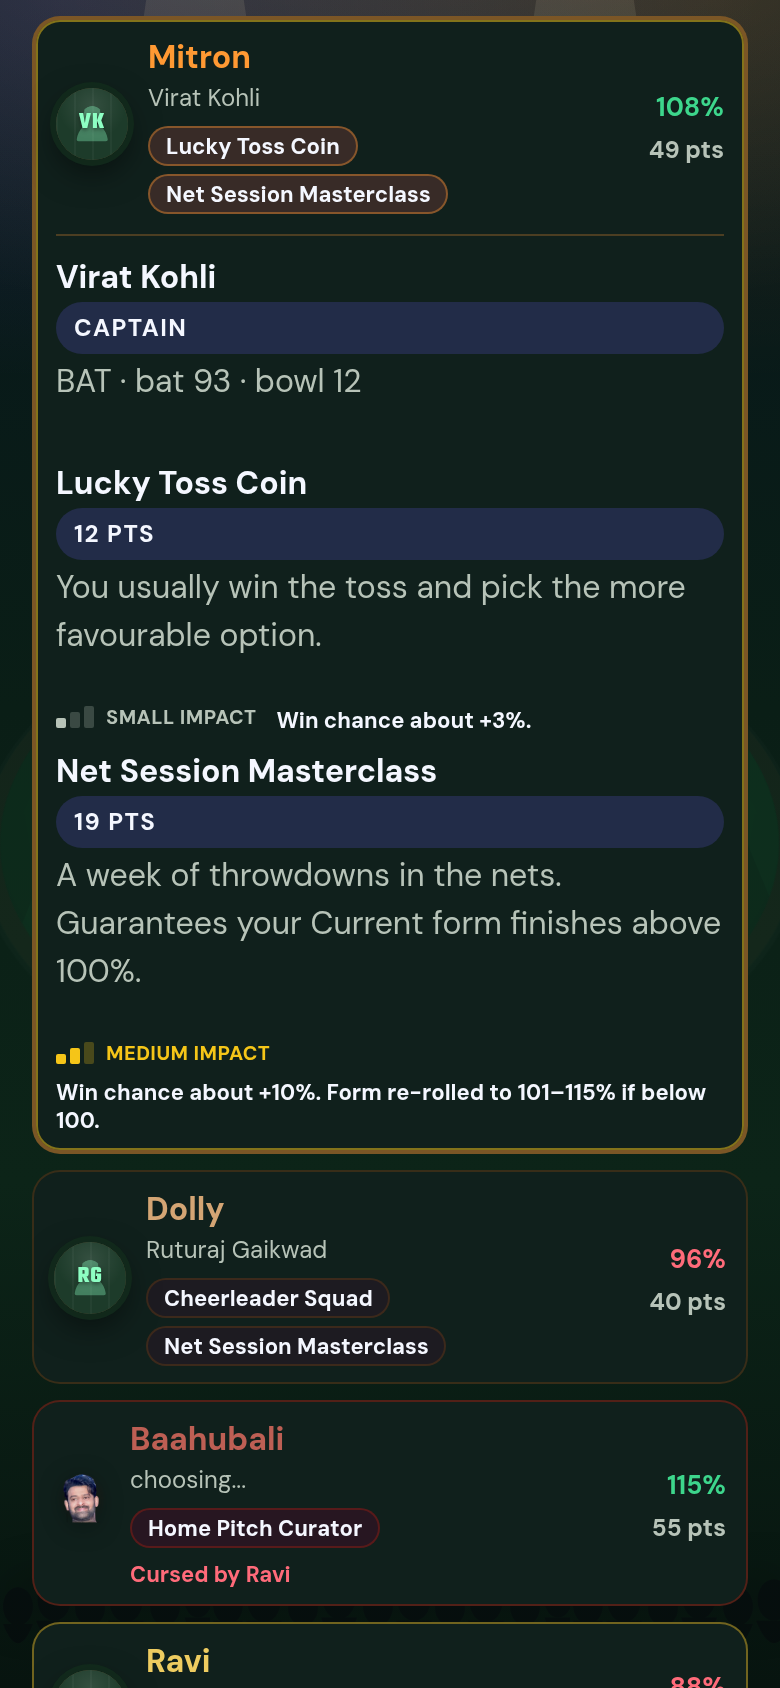
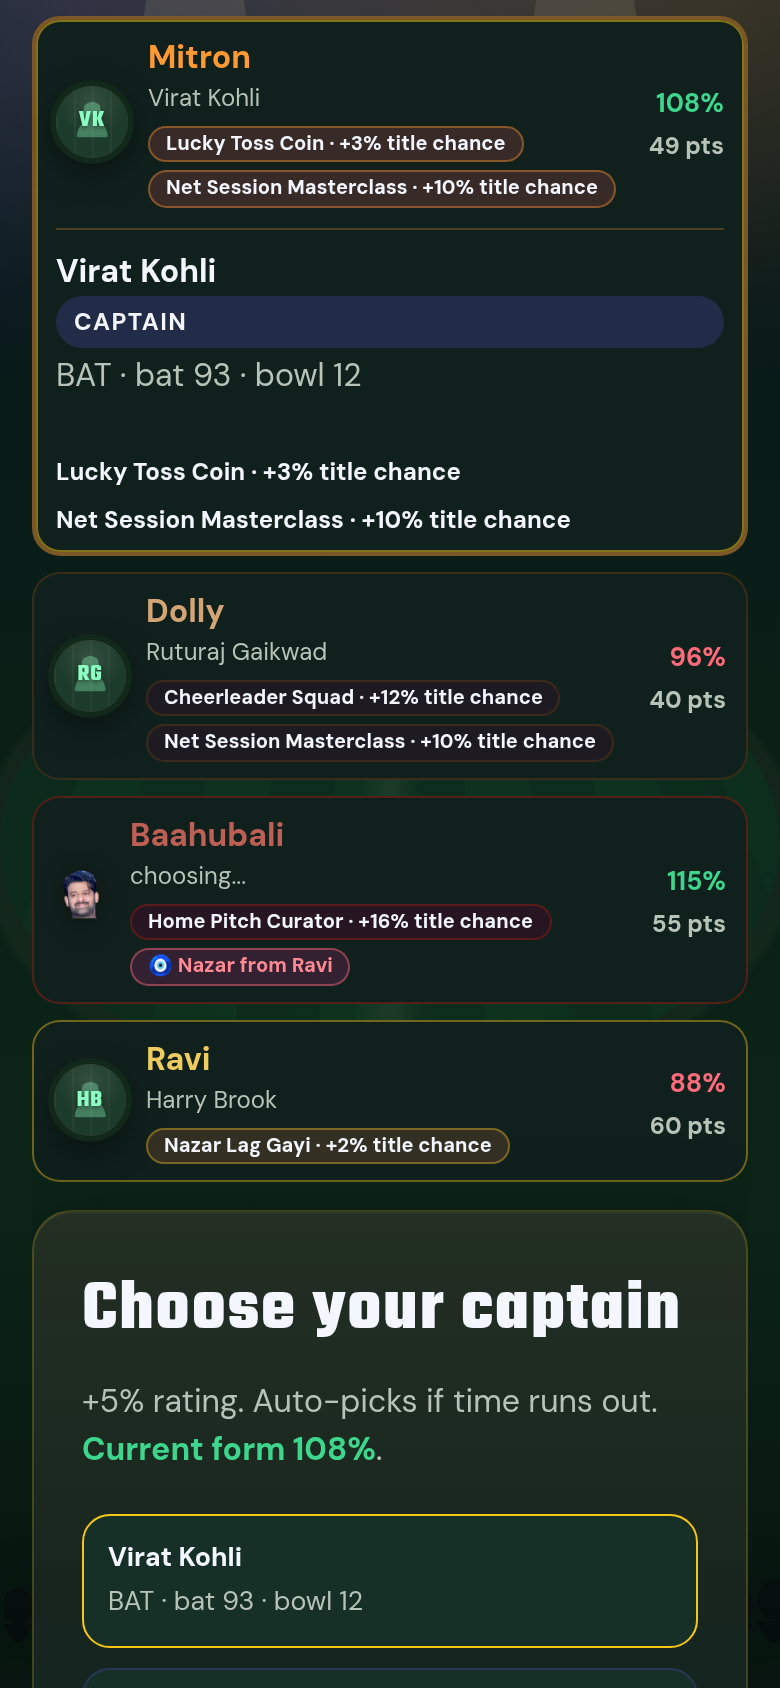
Hide unbuyable Buy buttons, sort the shop by impact, show only title-win chance on team cards, and put curses on the cursed team.

diff --git a/public/app.js b/public/app.js
@@ -1736,13 +1736,34 @@ function prepBoosterKey(teamName, booster) {
   return `${teamName}::${booster && booster.id ? booster.id : ""}`;
 }
 
+function titleChanceLabel(b) {
+  const impact = impactOf(b);
+  if (!impact || impact.titleWinPp == null || !Number.isFinite(Number(impact.titleWinPp))) return "";
+  const n = Math.round(Number(impact.titleWinPp));
+  const sign = n > 0 ? "+" : "";
+  return `${sign}${n}% title chance`;
+}
+
 function boosterChip(teamName, b) {
   if (!b) return "";
   const key = prepBoosterKey(teamName, b);
   const fresh = !seenPrepBoosters.has(key);
   seenPrepBoosters.add(key);
-  const target = b.targetName ? ` → ${esc(b.targetName)}` : "";
-  return `<span class="prep-chip ${fresh ? "is-fresh" : ""}">${esc(b.name)}${target}</span>`;
+  const full = (catalogById().get(b.id) || b);
+  const chance = titleChanceLabel(full);
+  const label = chance ? `${b.name} · ${chance}` : (b.name || "");
+  return `<span class="prep-chip ${fresh ? "is-fresh" : ""}">${esc(label)}</span>`;
+}
+
+function curseChip(caster, booster, victimName) {
+  if (!caster || !booster) return "";
+  const key = `curse::${caster.name}::${booster.id}::${victimName || ""}`;
+  const fresh = !seenPrepBoosters.has(key);
+  seenPrepBoosters.add(key);
+  let short = booster.name || "Curse";
+  if (booster.id === "nazar") short = "🧿 Nazar";
+  else if (booster.id === "bus-breakdown") short = "🚌 Bus Breakdown";
+  return `<span class="prep-chip prep-chip-curse ${fresh ? "is-fresh" : ""}">${esc(short)} from ${esc(caster.name)}</span>`;
 }
 
 function catalogById() {
@@ -1776,10 +1797,9 @@ function prepCard(team) {
   const expanded = expandedPrepTeam === team.name;
   const form = formPctOf(team) != null ? formLabel(team, { prefix: "" }) : "";
   const curses = cursedByOf(team, franchises);
-  const curseTag = curses.length
-    ? `<p class="prep-curse">Cursed by ${esc(curses.map((c) => c.team.name).join(", "))}</p>`
-    : "";
-  const chips = (team.boosters || []).map((b) => boosterChip(team.name, b)).join("") || `<span class="prep-chip is-empty">No boosters yet</span>`;
+  const ownChips = (team.boosters || []).map((b) => boosterChip(team.name, b));
+  const curseChips = curses.map((c) => curseChip(c.team, c.booster, team.name));
+  const chips = [...ownChips, ...curseChips].join("") || `<span class="prep-chip is-empty">No boosters yet</span>`;
   const mark = teamMark(team.franchise || team, "sm", team.name);
   const shot = captain && window.IplHeadshot
     ? IplHeadshot.markup(captain, { id: `prep-cap-${esc(team.name)}` })
@@ -1790,11 +1810,13 @@ function prepCard(team) {
     const capBlock = captain
       ? `<div class="prep-detail-cap"><strong>${esc(captain.name)}</strong> <span class="tag">Captain</span><p class="lede">${esc(captain.role)} · bat ${esc(captain.batting)} · bowl ${esc(captain.bowling)}</p></div>`
       : `<p class="lede">Captain still choosing...</p>`;
-    const boostBlocks = (team.boosters || []).map((b) => {
+    const boostLines = (team.boosters || []).map((b) => {
       const full = catalog.get(b.id) || b;
-      const aimed = b.targetName ? `<p class="lede">Aimed at ${esc(b.targetName)}.</p>` : "";
-      return `<div class="prep-detail-boost"><strong>${esc(b.name)}</strong> <span class="tag">${money(b.pricePoints)}</span><p class="lede">${esc(full.blurb || "")}</p>${impactMarkup(full)}${aimed}</div>`;
-    }).join("") || `<p class="lede">No boosters bought yet.</p>`;
+      const chance = titleChanceLabel(full);
+      return `<div class="prep-detail-boost"><p class="prep-boost-line">${esc(b.name)}${chance ? ` · ${esc(chance)}` : ""}</p></div>`;
+    });
+    const curseLines = curses.map((c) => `<div class="prep-detail-boost"><p class="prep-boost-line prep-boost-curse">${curseChip(c.team, c.booster, team.name)}</p></div>`);
+    const boostBlocks = [...boostLines, ...curseLines].join("") || `<p class="lede">No boosters bought yet.</p>`;
     details = `<div class="prep-card-details">${capBlock}${boostBlocks}</div>`;
   }
   return `
@@ -1805,7 +1827,6 @@ function prepCard(team) {
           <h3>${esc(team.name)}</h3>
           <p class="prep-captain-line">${captain ? esc(captain.name) : "choosing..."}</p>
           <div class="prep-chips">${chips}</div>
-          ${curseTag}
         </div>
         <div class="prep-card-meta">
           ${form ? `<p class="prep-form">${form}</p>` : ""}
@@ -1877,21 +1898,34 @@ function captainView() {
       </button>`
     )
     .join("");
-  const shop = catalog
+  const shopList = catalog.slice().sort((a, b) => {
+    const as = Number(a && a.impact && a.impact.score) || 0;
+    const bs = Number(b && b.impact && b.impact.score) || 0;
+    return bs - as;
+  });
+  const shop = shopList
     .map((b) => {
       const have = owned.has(b.id);
-      const can = you && !you.eliminated && !have && you.purseLakhs >= b.pricePoints;
+      const can = Boolean(you && !you.eliminated && !have && you.purseLakhs >= b.pricePoints);
       const needs = b.needsTarget ? "1" : "";
+      let reason = "";
+      if (!can) {
+        if (have) reason = "Owned";
+        else if (you && you.eliminated) reason = "Eliminated";
+        else if (you && you.purseLakhs < b.pricePoints) reason = "Not enough points";
+      }
+      const action = can
+        ? `<button class="btn secondary" data-buy="${esc(b.id)}" ${needs ? `data-needs-target="${needs}"` : ""}>${b.needsTarget ? "Pick a rival" : "Buy"}</button>`
+        : (reason ? `<p class="booster-reason">${esc(reason)}</p>` : "");
       return `
-        <div class="booster ${have ? "owned" : ""}">
+        <div class="booster ${have ? "owned" : ""} ${!can && reason ? "is-locked" : ""}">
           <div>
             <strong>${esc(b.name)}</strong>
             <span class="tag">${money(b.pricePoints)}</span>
-            ${have ? `<span class="tag">Bought</span>` : ""}
           </div>
           <p class="lede">${esc(b.blurb)}</p>
           ${impactMarkup(b)}
-          <button class="btn secondary" data-buy="${esc(b.id)}" ${needs ? `data-needs-target="${needs}"` : ""} ${can ? "" : "disabled"}>${have ? "Owned" : b.needsTarget ? "Pick a rival" : "Buy"}</button>
+          ${action}
         </div>`;
     })
     .join("");

diff --git a/server/boosters.js b/server/boosters.js
@@ -8,56 +8,56 @@ const BOOSTERS = [
     id: "friendly-umpire",
     name: "Friendly Umpire",
     pricePoints: 22,
-    impact: { size: "medium", bars: 2, line: "Win chance about +13%." },
+    impact: { size: "medium", bars: 2, line: "Win chance about +13%.", score: 14.546, titleWinPp: 13 },
     blurb: "Close calls go your way. A small chance to turn a narrow loss into a win.",
   },
   {
     id: "home-curator",
     name: "Home Pitch Curator",
     pricePoints: 25,
-    impact: { size: "big", bars: 3, line: "Win chance about +16%." },
+    impact: { size: "big", bars: 3, line: "Win chance about +16%.", score: 18.154, titleWinPp: 16 },
     blurb: "A surface that suits your attack. Modest bowling boost every match.",
   },
   {
     id: "drs-wizard",
     name: "DRS Wizard",
     pricePoints: 10,
-    impact: { size: "small", bars: 1, line: "Win chance about +2%." },
+    impact: { size: "small", bars: 1, line: "Win chance about +2%.", score: 1.848, titleWinPp: 2 },
     blurb: "A slim chance to overturn a narrow defeat on review.",
   },
   {
     id: "dew-factor",
     name: "Dew Factor",
     pricePoints: 26,
-    impact: { size: "big", bars: 3, line: "Win chance about +17%." },
+    impact: { size: "big", bars: 3, line: "Win chance about +17%.", score: 19.046, titleWinPp: 17 },
     blurb: "Chasing under lights gets a modest batting bump.",
   },
   {
     id: "cheerleaders",
     name: "Cheerleader Squad",
     pricePoints: 21,
-    impact: { size: "medium", bars: 2, line: "Win chance about +12%." },
+    impact: { size: "medium", bars: 2, line: "Win chance about +12%.", score: 13.532, titleWinPp: 12 },
     blurb: "Crowd morale. Your whole team plays a touch stronger.",
   },
   {
     id: "rain-dance",
     name: "Rain Dance",
     pricePoints: 11,
-    impact: { size: "small", bars: 1, line: "Win chance about +3%." },
+    impact: { size: "small", bars: 1, line: "Win chance about +3%.", score: 3.243, titleWinPp: 3 },
     blurb: "A chance to wash a league loss out into a no-result.",
   },
   {
     id: "lucky-toss",
     name: "Lucky Toss Coin",
     pricePoints: 12,
-    impact: { size: "small", bars: 1, line: "Win chance about +3%." },
+    impact: { size: "small", bars: 1, line: "Win chance about +3%.", score: 3.671, titleWinPp: 3 },
     blurb: "You usually win the toss and pick the more favourable option.",
   },
   {
     id: "bus-breakdown",
     name: "Team Bus Breakdown",
     pricePoints: 30,
-    impact: { size: "big", bars: 3, line: "Win chance about +4%. Rival title chance about -16%." },
+    impact: { size: "big", bars: 3, line: "Win chance about +4%. Rival title chance about -16%.", score: 22.966, titleWinPp: 4 },
     blurb: "Sabotage: one random rival arrives late and plays below par in every match.",
   },
   {
@@ -65,7 +65,7 @@ const BOOSTERS = [
     name: "Net Session Masterclass",
     pricePoints: 19,
     effect: "form-self",
-    impact: { size: "medium", bars: 2, line: "Win chance about +10%. Form re-rolled to 101–115% if below 100." },
+    impact: { size: "medium", bars: 2, line: "Win chance about +10%. Form re-rolled to 101–115% if below 100.", score: 10.915, titleWinPp: 10 },
     blurb: "A week of throwdowns in the nets. Guarantees your Current form finishes above 100%.",
   },
   {
@@ -73,7 +73,7 @@ const BOOSTERS = [
     name: "Nazar Lag Gayi",
     pricePoints: 20,
     effect: "form-rival",
-    impact: { size: "medium", bars: 2, line: "Win chance about +2%. Rival form below 100% (title chance about -9%)." },
+    impact: { size: "medium", bars: 2, line: "Win chance about +2%. Rival form below 100% (title chance about -9%).", score: 12.414, titleWinPp: 2 },
     needsTarget: true,
     blurb: "A lingering stare from the stands. Pick a rival and force their Current form below 100%.",
   },
@@ -109,11 +109,21 @@ function packImpact(b) {
     size: b.impact.size || "medium",
     bars: Number(b.impact.bars) || 2,
     line: b.impact.line || "",
+    score: Number(b.impact.score) || 0,
+    titleWinPp: Number.isFinite(Number(b.impact.titleWinPp)) ? Number(b.impact.titleWinPp) : null,
   };
 }
 
+function catalogByImpact(list) {
+  return (list || []).slice().sort((a, b) => {
+    const as = Number(a && a.impact && a.impact.score) || 0;
+    const bs = Number(b && b.impact && b.impact.score) || 0;
+    return bs - as;
+  });
+}
+
 function publicCatalog() {
-  return BOOSTERS.map((b) => ({
+  return catalogByImpact(BOOSTERS.map((b) => ({
     id: b.id,
     name: b.name,
     pricePoints: b.pricePoints,
@@ -121,7 +131,7 @@ function publicCatalog() {
     needsTarget: Boolean(b.needsTarget),
     effect: b.effect || null,
     impact: packImpact(b),
-  }));
+  })));
 }
 
 function packBooster(b) {
@@ -256,6 +266,7 @@ module.exports = {
   publicCatalog,
   packBooster,
   packImpact,
+  catalogByImpact,
   rollUniformPct,
   applyFormBoosters,
 };

diff --git a/scripts/shot-booster-board.js b/scripts/shot-booster-board.js
@@ -162,17 +162,37 @@ async function main() {
     await waitFor(host, () => {
       const text = (document.getElementById("prep-screen") && document.getElementById("prep-screen").innerText) || "";
       const chips = document.querySelectorAll(".prep-chip").length;
-      return chips >= 6 && /Lucky Toss Coin/.test(text) && /Nazar Lag Gayi/.test(text) && /Cursed by Ravi/.test(text) && /choosing/.test(text);
+      return chips >= 6 && /Lucky Toss Coin/.test(text) && /\+3% title chance/.test(text) && /Nazar from Ravi/.test(text) && /choosing/.test(text);
     }, "purchases on board");
     await sleep(1600);
-    await shot(host, "booster-board.png", PHONE, { scroll: "#prep-screen", hideTopbar: true });
+    await shot(host, "booster-board-curse.png", PHONE, { scroll: '[data-prep-team="Baahubali"]', hideTopbar: true });
 
     await waitFor(host, () => {
       const shop = document.getElementById("prep-shop");
+      const names = Array.from(document.querySelectorAll("#prep-shop .booster strong")).map((el) => el.textContent.trim());
+      return Boolean(shop && names[0] === "Team Bus Breakdown" && names[names.length - 1] === "DRS Wizard");
+    }, "shop catalog order");
+    const mitron = room.findByName("Mitron");
+    const savedPurse = mitron.purseLakhs;
+    mitron.purseLakhs = 15;
+    room.bump("captains");
+    await waitFor(host, () => {
+      const shop = document.getElementById("prep-shop");
       const text = shop ? shop.innerText : "";
-      return Boolean(shop && document.querySelectorAll(".impact-tag").length >= 8 && /Win chance about/.test(text) && /big impact/i.test(text));
-    }, "shop impact lines");
-    await shot(host, "booster-shop-impact.png", PHONE, { scroll: "#prep-shop", hideTopbar: true });
+      const names = Array.from(document.querySelectorAll("#prep-shop .booster strong")).map((el) => el.textContent.trim());
+      const firstLocked = document.querySelector("#prep-shop .booster");
+      const noBuyOnFirst = firstLocked && !firstLocked.querySelector("[data-buy]");
+      const ownedLucky = /Lucky Toss Coin/.test(text) && /Owned/.test(text);
+      return Boolean(shop && names[0] === "Team Bus Breakdown" && /Not enough points/.test(text) && noBuyOnFirst && ownedLucky);
+    }, "shop locked reasons");
+    await shot(host, "booster-shop-sorted.png", PHONE, { scroll: "#prep-shop", hideTopbar: true });
+    mitron.purseLakhs = savedPurse;
+    room.bump("captains");
+    await waitFor(host, (purse) => {
+      const shop = document.getElementById("prep-shop");
+      const text = shop ? shop.innerText : "";
+      return Boolean(shop && text.includes("Purse:") && text.includes(String(purse)));
+    }, "purse restored", 15000, savedPurse);
 
     await host.evaluate(() => {
       const card = document.querySelector('[data-prep-team="Mitron"]');
@@ -181,7 +201,7 @@ async function main() {
     await waitFor(host, () => {
       const card = document.querySelector('[data-prep-team="Mitron"].is-open');
       const text = card ? card.innerText : "";
-      return Boolean(card && /Net Session Masterclass/.test(text) && /Guarantees your Current form/.test(text));
+      return Boolean(card && /Net Session Masterclass · \+10% title chance/.test(text) && /Lucky Toss Coin · \+3% title chance/.test(text) && !/Guarantees your Current form/.test(text) && !/Big impact|Medium impact|Small impact/i.test(text));
     }, "mitron card expanded");
     await sleep(300);
     await shot(host, "booster-board-expanded.png", PHONE, { scroll: '[data-prep-team="Mitron"]', hideTopbar: true });

diff --git a/public/styles.css b/public/styles.css
@@ -279,7 +279,9 @@ th { color: var(--muted); font-size: 12px; letter-spacing: 0.06em; text-transfor
 .booster-grid { display: grid; gap: 10px; }
 .booster { background: #0c1324; border: 1px solid #334169; border-radius: 14px; padding: 12px; display: grid; gap: 8px; }
 .booster.owned { border-color: #3d6b4f; }
+.booster.is-locked { opacity: 0.92; }
 .booster .tag { margin-left: 8px; }
+.booster-reason { margin: 0; font-size: 12px; font-weight: 700; color: var(--muted); }
 
 .prep-screen { display: grid; gap: 14px; }
 .prep-timer-bar {
@@ -347,11 +349,24 @@ th { color: var(--muted); font-size: 12px; letter-spacing: 0.06em; text-transfor
   font-weight: 700;
   background: color-mix(in srgb, var(--c, var(--gold)) 18%, #0c1324);
   border: 1px solid color-mix(in srgb, var(--c, var(--gold)) 40%, transparent);
-  white-space: nowrap;
+  white-space: normal;
+  line-height: 1.25;
+  max-width: 100%;
 }
 .prep-chip.is-empty { opacity: 0.6; font-weight: 600; }
 .prep-chip.is-fresh { animation: sold-pop 480ms cubic-bezier(0.18, 1.4, 0.32, 1) both; }
+.prep-chip-curse {
+  color: #ff8a94;
+  background: color-mix(in srgb, #ff6b7a 16%, #0c1324);
+  border-color: color-mix(in srgb, #ff6b7a 45%, transparent);
+}
 .prep-curse { margin: 6px 0 0; font-size: 11px; font-weight: 700; color: #ff6b7a; }
+.prep-boost-line { margin: 0; font-size: 13px; font-weight: 700; }
+.prep-boost-curse { color: #ff8a94; }
+@media (max-width: 700px) {
+  .prep-chip { font-size: 10px; }
+  .prep-boost-line { font-size: 12px; }
+}
 .prep-card-meta { text-align: right; display: grid; gap: 4px; justify-items: end; }
 .prep-form { margin: 0; }
 .prep-form .form-pct { font-size: 13px; }

diff --git a/test/logic.test.js b/test/logic.test.js
@@ -759,7 +759,16 @@ describe("booster shop", () => {
     for (const b of BOOSTERS) {
       assert.ok(b.pricePoints >= 10 && b.pricePoints <= 30, b.id);
       assert.ok(b.impact && b.impact.line && b.impact.size, b.id);
+      assert.ok(Number(b.impact.score) > 0, b.id);
+      assert.ok(Number.isFinite(Number(b.impact.titleWinPp)), b.id);
       assert.ok(b.name && b.blurb);
+    }
+    const { publicCatalog } = require("../server/boosters");
+    const catalog = publicCatalog();
+    assert.equal(catalog[0].id, "bus-breakdown");
+    assert.equal(catalog[catalog.length - 1].id, "drs-wizard");
+    for (let i = 1; i < catalog.length; i++) {
+      assert.ok(catalog[i - 1].impact.score >= catalog[i].impact.score, `${catalog[i - 1].id} before ${catalog[i].id}`);
     }
     const room = primedRoom();
     room.beginCaptainPhase();

diff --git a/README.md b/README.md
@@ -23,7 +23,7 @@ This is a local MVP. Nothing is deployed, and no accounts are required.
   - **Points floor and bans:** purses cannot go below 0. A team that reaches 0 is immediately shown room-wide as **Banned for match fixing** — their chip is marked banned, and they cannot bid or use powers.
   - **Power waits and quick chat:** during Dolly's chai break, Salman/Taylor/Kim/Ranveer target picks, or Rakhi's swayamvar choice, everyone can still send emotes and that player's own character lines as quick chat (the same lines as in the emote picker). The server only accepts a line that belongs to the sender's character. Dolly's pause is unlimited and only she can end it with **Chai khatam** (the host cannot resume; if she disconnects, the auction auto-resumes after 30 seconds). Rakhi's rivals have 15 seconds to pay her 3 points or refuse; a timeout counts as a refuse and they sit out the **next** lot only.
   - **Auction list:** when the host starts, the server builds the list of players that will come up. For each role in the room's mode it randomly picks **numTeams × role slots**, plus a small buffer of **max(1, ceil(numTeams / 2))** extra players of that role, from the full player database (roles with no slots, such as all-rounders in Rapid or Bullet, are omitted). Those picks are combined and shuffled once with a Fisher–Yates shuffle (crypto-quality randomness in play; tests can inject a seed or RNG). The auction then goes through that list **in that order**. Players no incomplete team can use — every remaining team is already full in that role — are skipped automatically, not put on the block. The buffer covers the default-bid overflow case: a team that is not yet complete may be forced to keep a player whose role quota is already full, which can leave another team short of that role. If the list still runs out while a team needs a role, a further small batch of that role is appended from whoever is left in the database. The auction ends when every remaining team has a complete squad; auto-fill at 1 point is the final fallback. The auction header shows **Lot X of N** for the current position in that list.
-- **Captain & boosters:** once the auction ends, teams have **90 seconds** to pick a captain and (if they have leftover points) buy funny boosters from the shop. One of each booster per team, priced 10–30 points according to measured impact. Unspent points are kept but unused. The phase ends early only when every team has a captain and nobody can afford another booster. If time runs out, the server auto-picks the highest-rated captain. The captain gets a +5% rating boost. Two form boosters are the exception to the usual once-only form roll: **Net Session Masterclass** (19 points) guarantees your Current form finishes above 100% (a re-roll in 101–115 if it is not already; no extra bump if it already is), and **Nazar Lag Gayi** (20 points) lets you pick a rival and force their form below 100% (a re-roll in 85–99, or no change if it is already below). If a team has both its own guarantee and one or more curses, they cancel and the original form is kept. Those boosters are applied when the phase ends, before the tournament is simulated, and the form swings are shown in a short reveal. The captain/booster screen has a live board of every team's captain, boosters, points, Current form, and curse targets, plus a ticker of purchases. The shop and an expanded team card show each booster's measured impact (a Small/Medium/Big tag and a short line such as win-chance change). Bought boosters have modest effects on the simulation and show up in results with any moments they triggered.
+- **Captain & boosters:** once the auction ends, teams have **90 seconds** to pick a captain and (if they have leftover points) buy funny boosters from the shop. One of each booster per team, priced 10–30 points according to measured impact. Unspent points are kept but unused. The phase ends early only when every team has a captain and nobody can afford another booster. If time runs out, the server auto-picks the highest-rated captain. The captain gets a +5% rating boost. Two form boosters are the exception to the usual once-only form roll: **Net Session Masterclass** (19 points) guarantees your Current form finishes above 100% (a re-roll in 101–115 if it is not already; no extra bump if it already is), and **Nazar Lag Gayi** (20 points) lets you pick a rival and force their form below 100% (a re-roll in 85–99, or no change if it is already below). If a team has both its own guarantee and one or more curses, they cancel and the original form is kept. Those boosters are applied when the phase ends, before the tournament is simulated, and the form swings are shown in a short reveal. The captain/booster screen has a live board of every team's captain, boosters, points, Current form, and curse targets, plus a ticker of purchases. The shop lists boosters in decreasing order of measured impact, keeps the Small/Medium/Big tag, and hides the Buy button on anything you cannot buy. Team cards show only each booster's title-win chance, and curses such as Nazar Lag Gayi appear on the cursed team with the caster's name. Bought boosters have modest effects on the simulation and show up in results with any moments they triggered.
 - **Tournament:** only BAT, WK and AR players bat; only AR and BOWL players bowl. Strength is averaged over a full unit for the mode (Classical 7 batting-capable / 6 bowling-capable; Rapid 3/2; Bullet 2/1), so missing players count as zero and lopsided squads suffer. Innings length scales with the mode: Classical is a 20-over game (up to 10 wickets, bowlers capped at 4 overs, expected score around 155); Rapid is 10 overs (up to 4 wickets, 5-over cap, expected score around 78); Bullet is 6 overs (up to 2 wickets, the single bowler can bowl the lot, expected score around 47). Any squad member can be captain; if time runs out the server still auto-picks the highest-rated player. Form is rolled once when a squad is completed, as the average of two rolls in 85–115%, then shifted by up to **+5 / −5** points according to completion order (first to finish slightly hotter, last slightly colder; still random, with upsets possible). Auto-fill and last-team fill only affect that form rank — they do not apply any other penalty to the simulation or the scores. Then a round-robin league and playoffs (IPL-style if there are 4+ teams, or a top-2 final if fewer) are simulated internally to decide positions. Results are revealed in a **server-synced** standings crawl from last place up to the champion, one team at a time about every 2.8 seconds (or **Skip**). Each standings row shows position, team name (with a small co-owner portrait), the performance score out of 1000, and **Current form**. The champion row is highlighted. Finish tags and W–L sit on the team sheet, which opens when a row is tapped. The score is the existing squad strength, `round(clamp(S, 0, 110) / 110 * 1000)`, where S is the squad's simulated match strength (batting and bowling averages with empty-slot penalties, captain bump, form, and standing boosters; dew-factor and the bus nerf are left out). Typical complete Classical sides land roughly 600–850. Match-by-match fixtures and the playoff bracket are not shown; tapping a team opens a sheet with the full squad and each player's simulated tournament batting and bowling. Target: under 2 minutes.
 
 Player ratings in `data/players.json` are **informal estimates** for game balance, not official stats. Swap that file to use your own pool.
